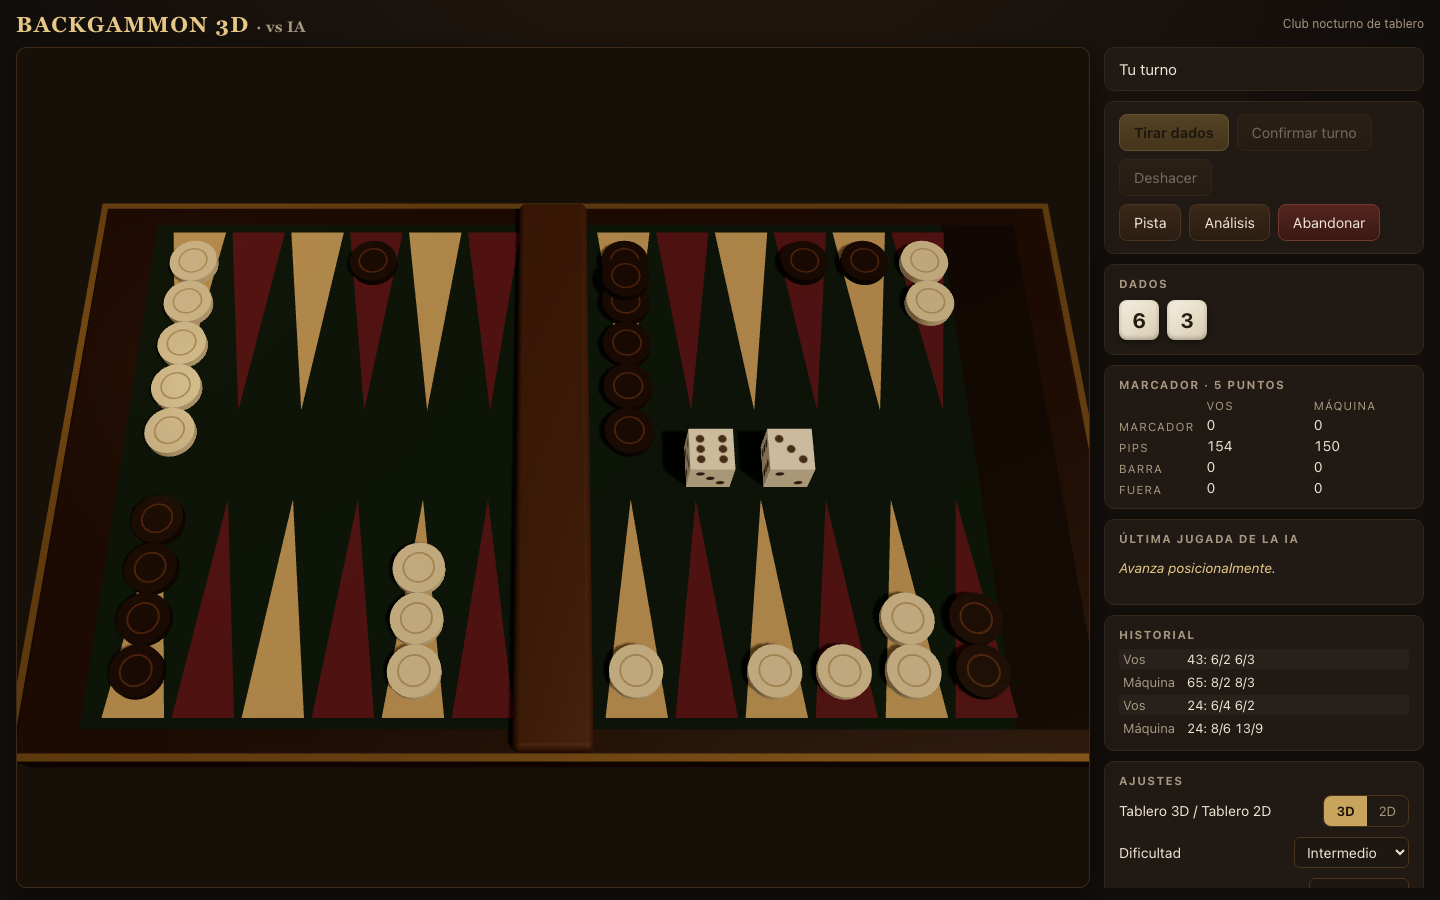
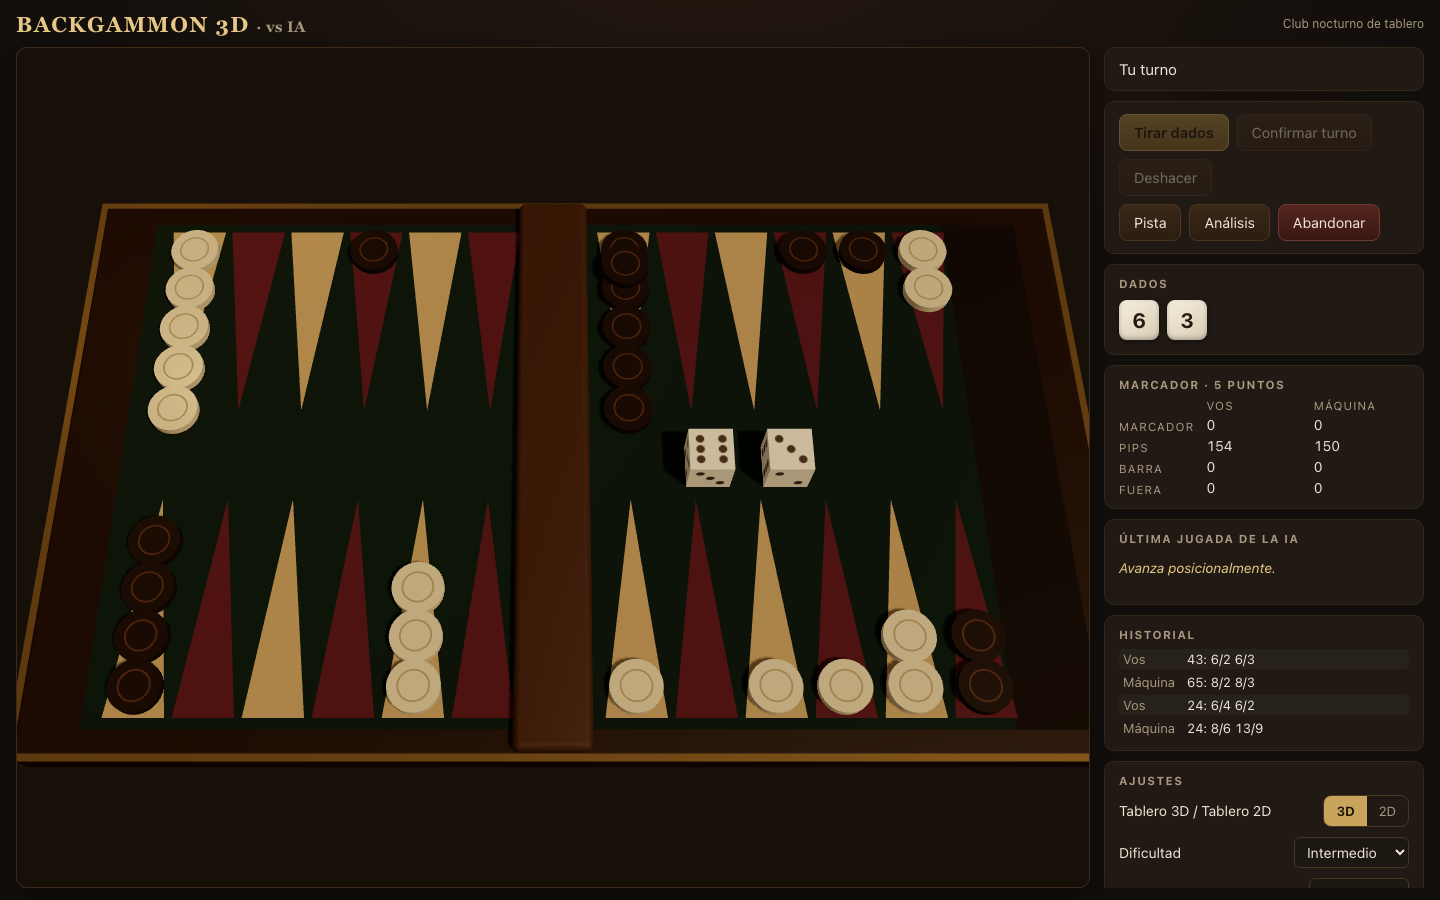
fix(3d): checker rows hug the board edge
Rows started 0.24 units in from the edge, reading as floated toward the
center. First slot now sits at the triangle base and the pitch spans a
point's full length (slight overlap on crowded points, like a real board).

diff --git a/src/components/board/Board3D.tsx b/src/components/board/Board3D.tsx
@@ -14,8 +14,14 @@ const POINT_W = 0.92;
 const EDGE_Z = 3.62;
 const CHECKER_R = 0.36;
 const CHECKER_H = 0.13;
-/** Row pitch: 5 checkers must fit inside a point (half-board is ~3.6). */
-const SLOT_STEP = 0.72;
+/**
+ * Row pitch: 5 checkers must span exactly a point's length (base at the
+ * board edge, 5th checker by the apex). Slightly under one diameter, so
+ * crowded points overlap a touch — like a real board.
+ */
+const SLOT_STEP = 0.68;
+/** First checker hugs the board edge (triangle bases sit at ±3.8). */
+const SLOT_BASE = 0.22;
 
 function columnOf(index: number): number {
   return index >= 12 ? index - 12 : 11 - index;
@@ -41,7 +47,7 @@ function checkerPos3D(
   const slot = stackIdx % 5;
   // Row pitch keeps 5 checkers inside a point; extra layers nest on top,
   // shifted half a slot so they sit in the gaps like a real board.
-  const dz = 0.42 + slot * SLOT_STEP + (layer % 2) * (SLOT_STEP / 2);
+  const dz = SLOT_BASE + slot * SLOT_STEP + (layer % 2) * (SLOT_STEP / 2);
   const z = isTop(index) ? -EDGE_Z + dz : EDGE_Z - dz;
   return [pointX(index), 0.02 + CHECKER_H / 2 + layer * (CHECKER_H + 0.005), z];
 }